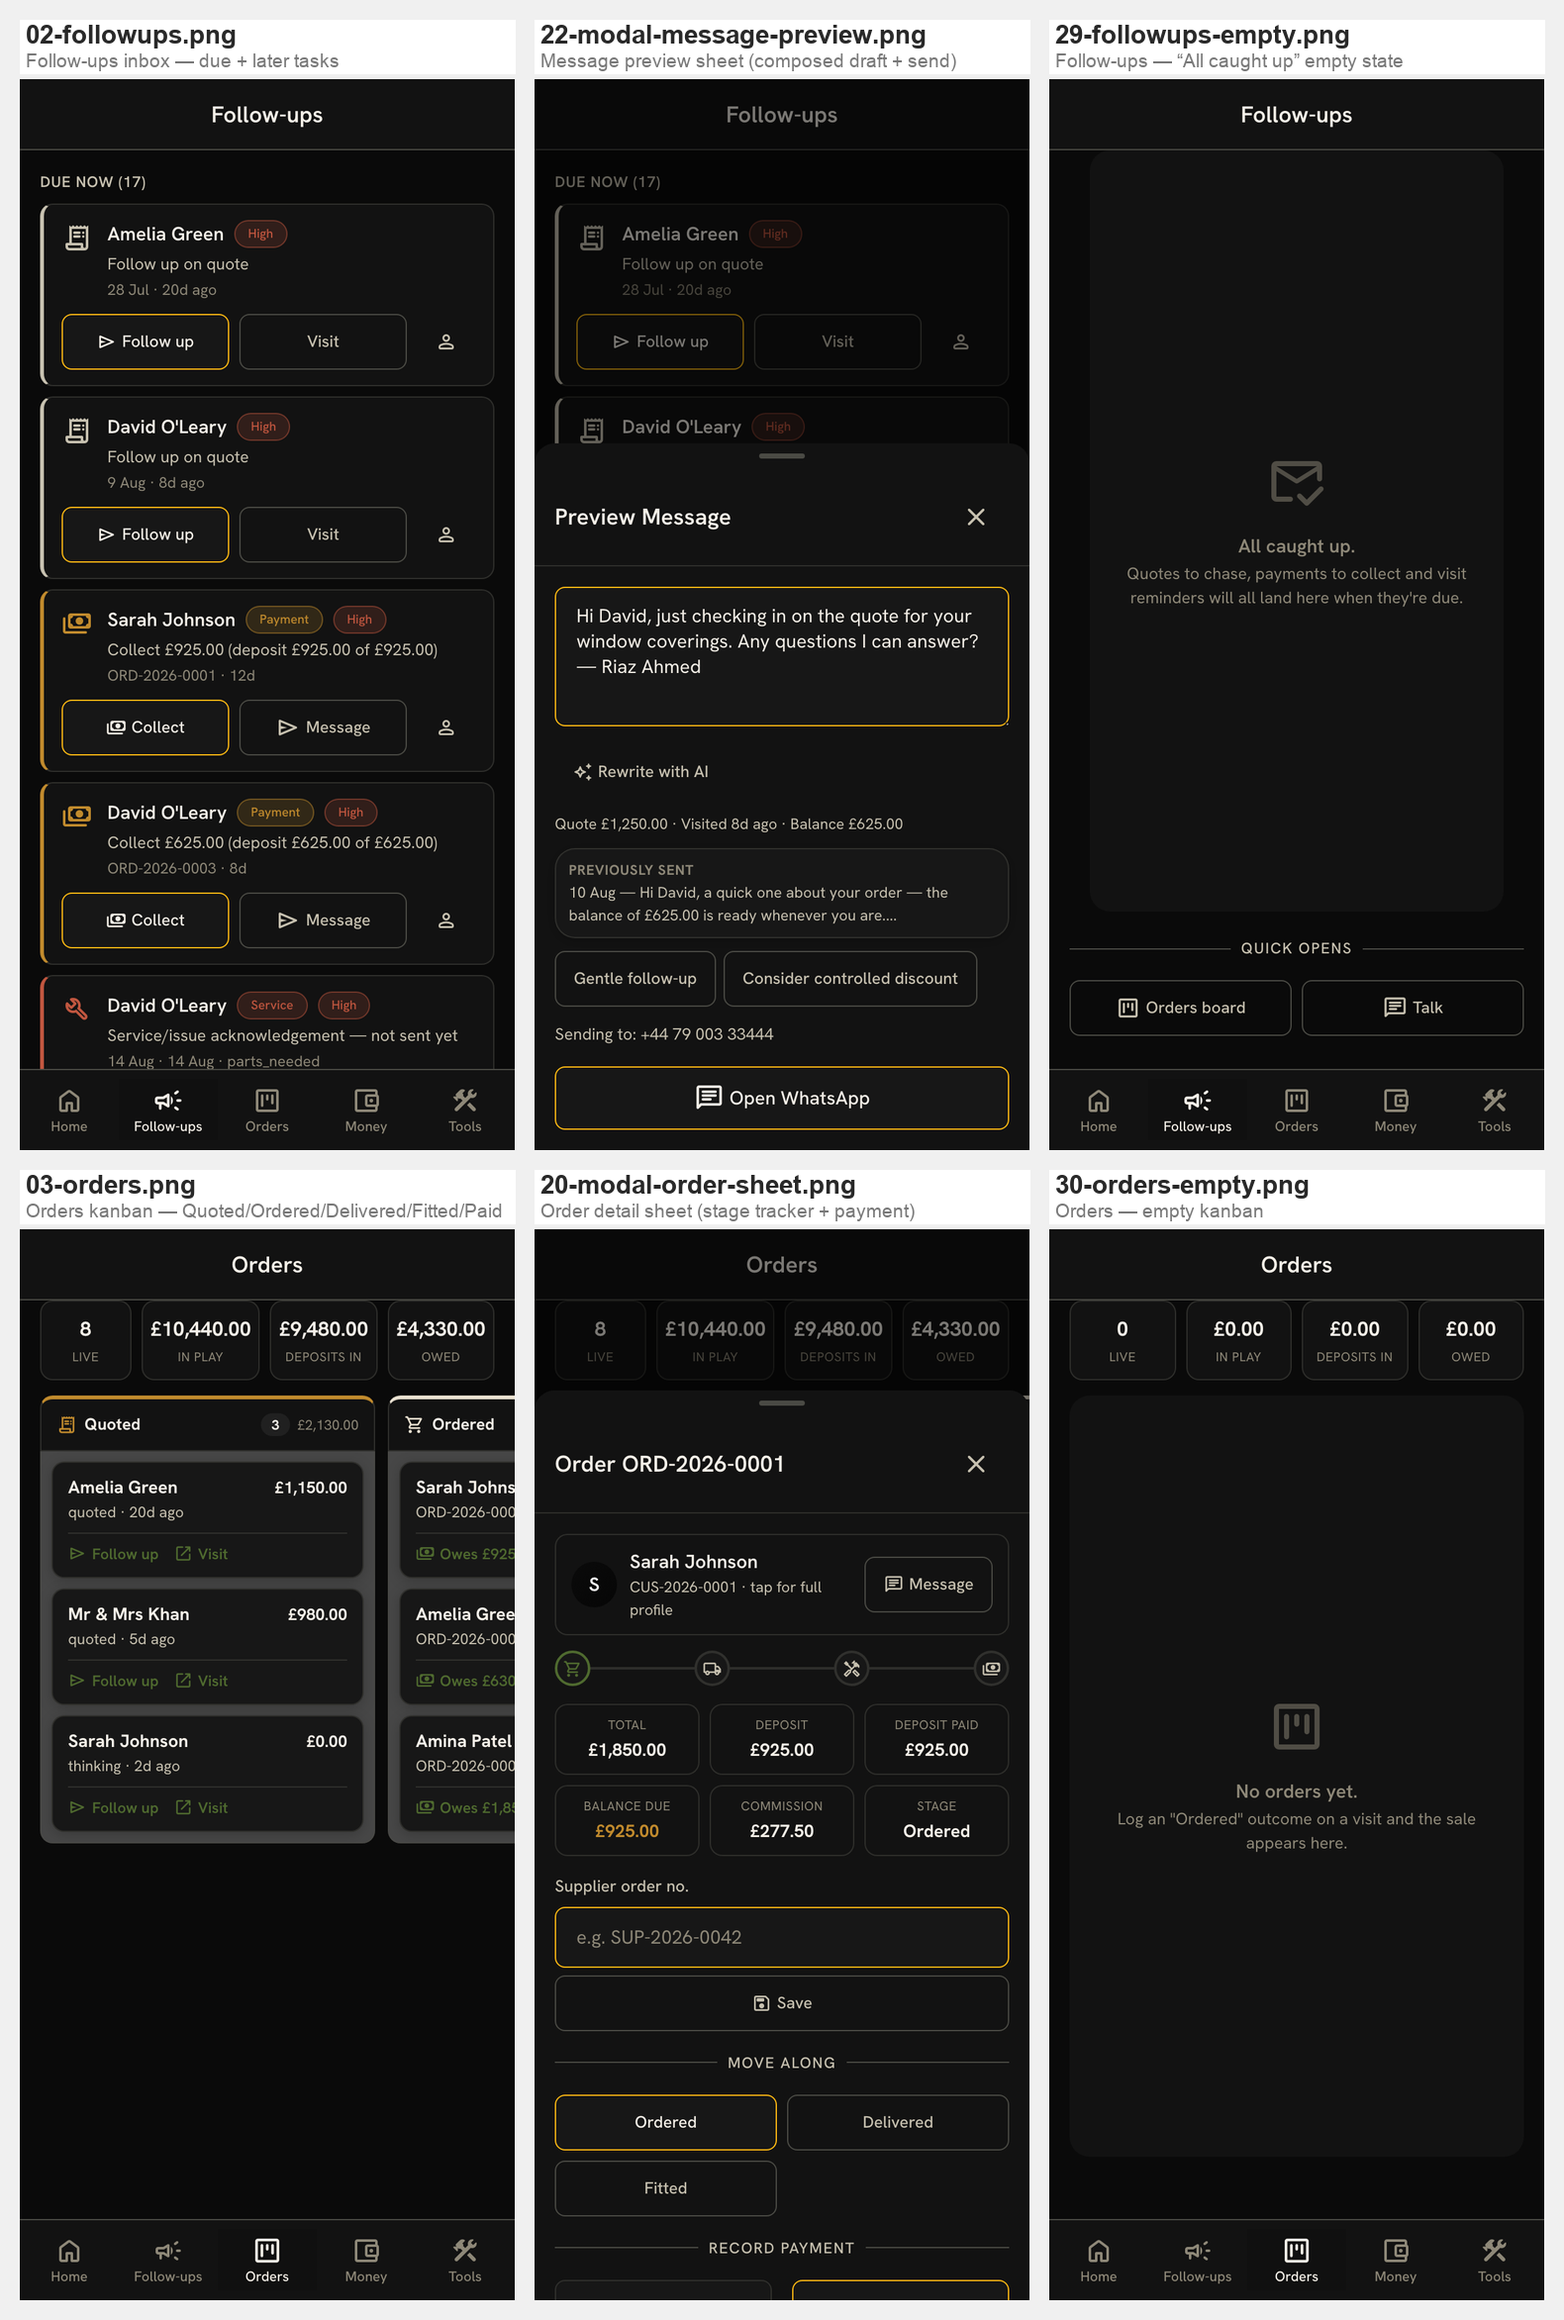
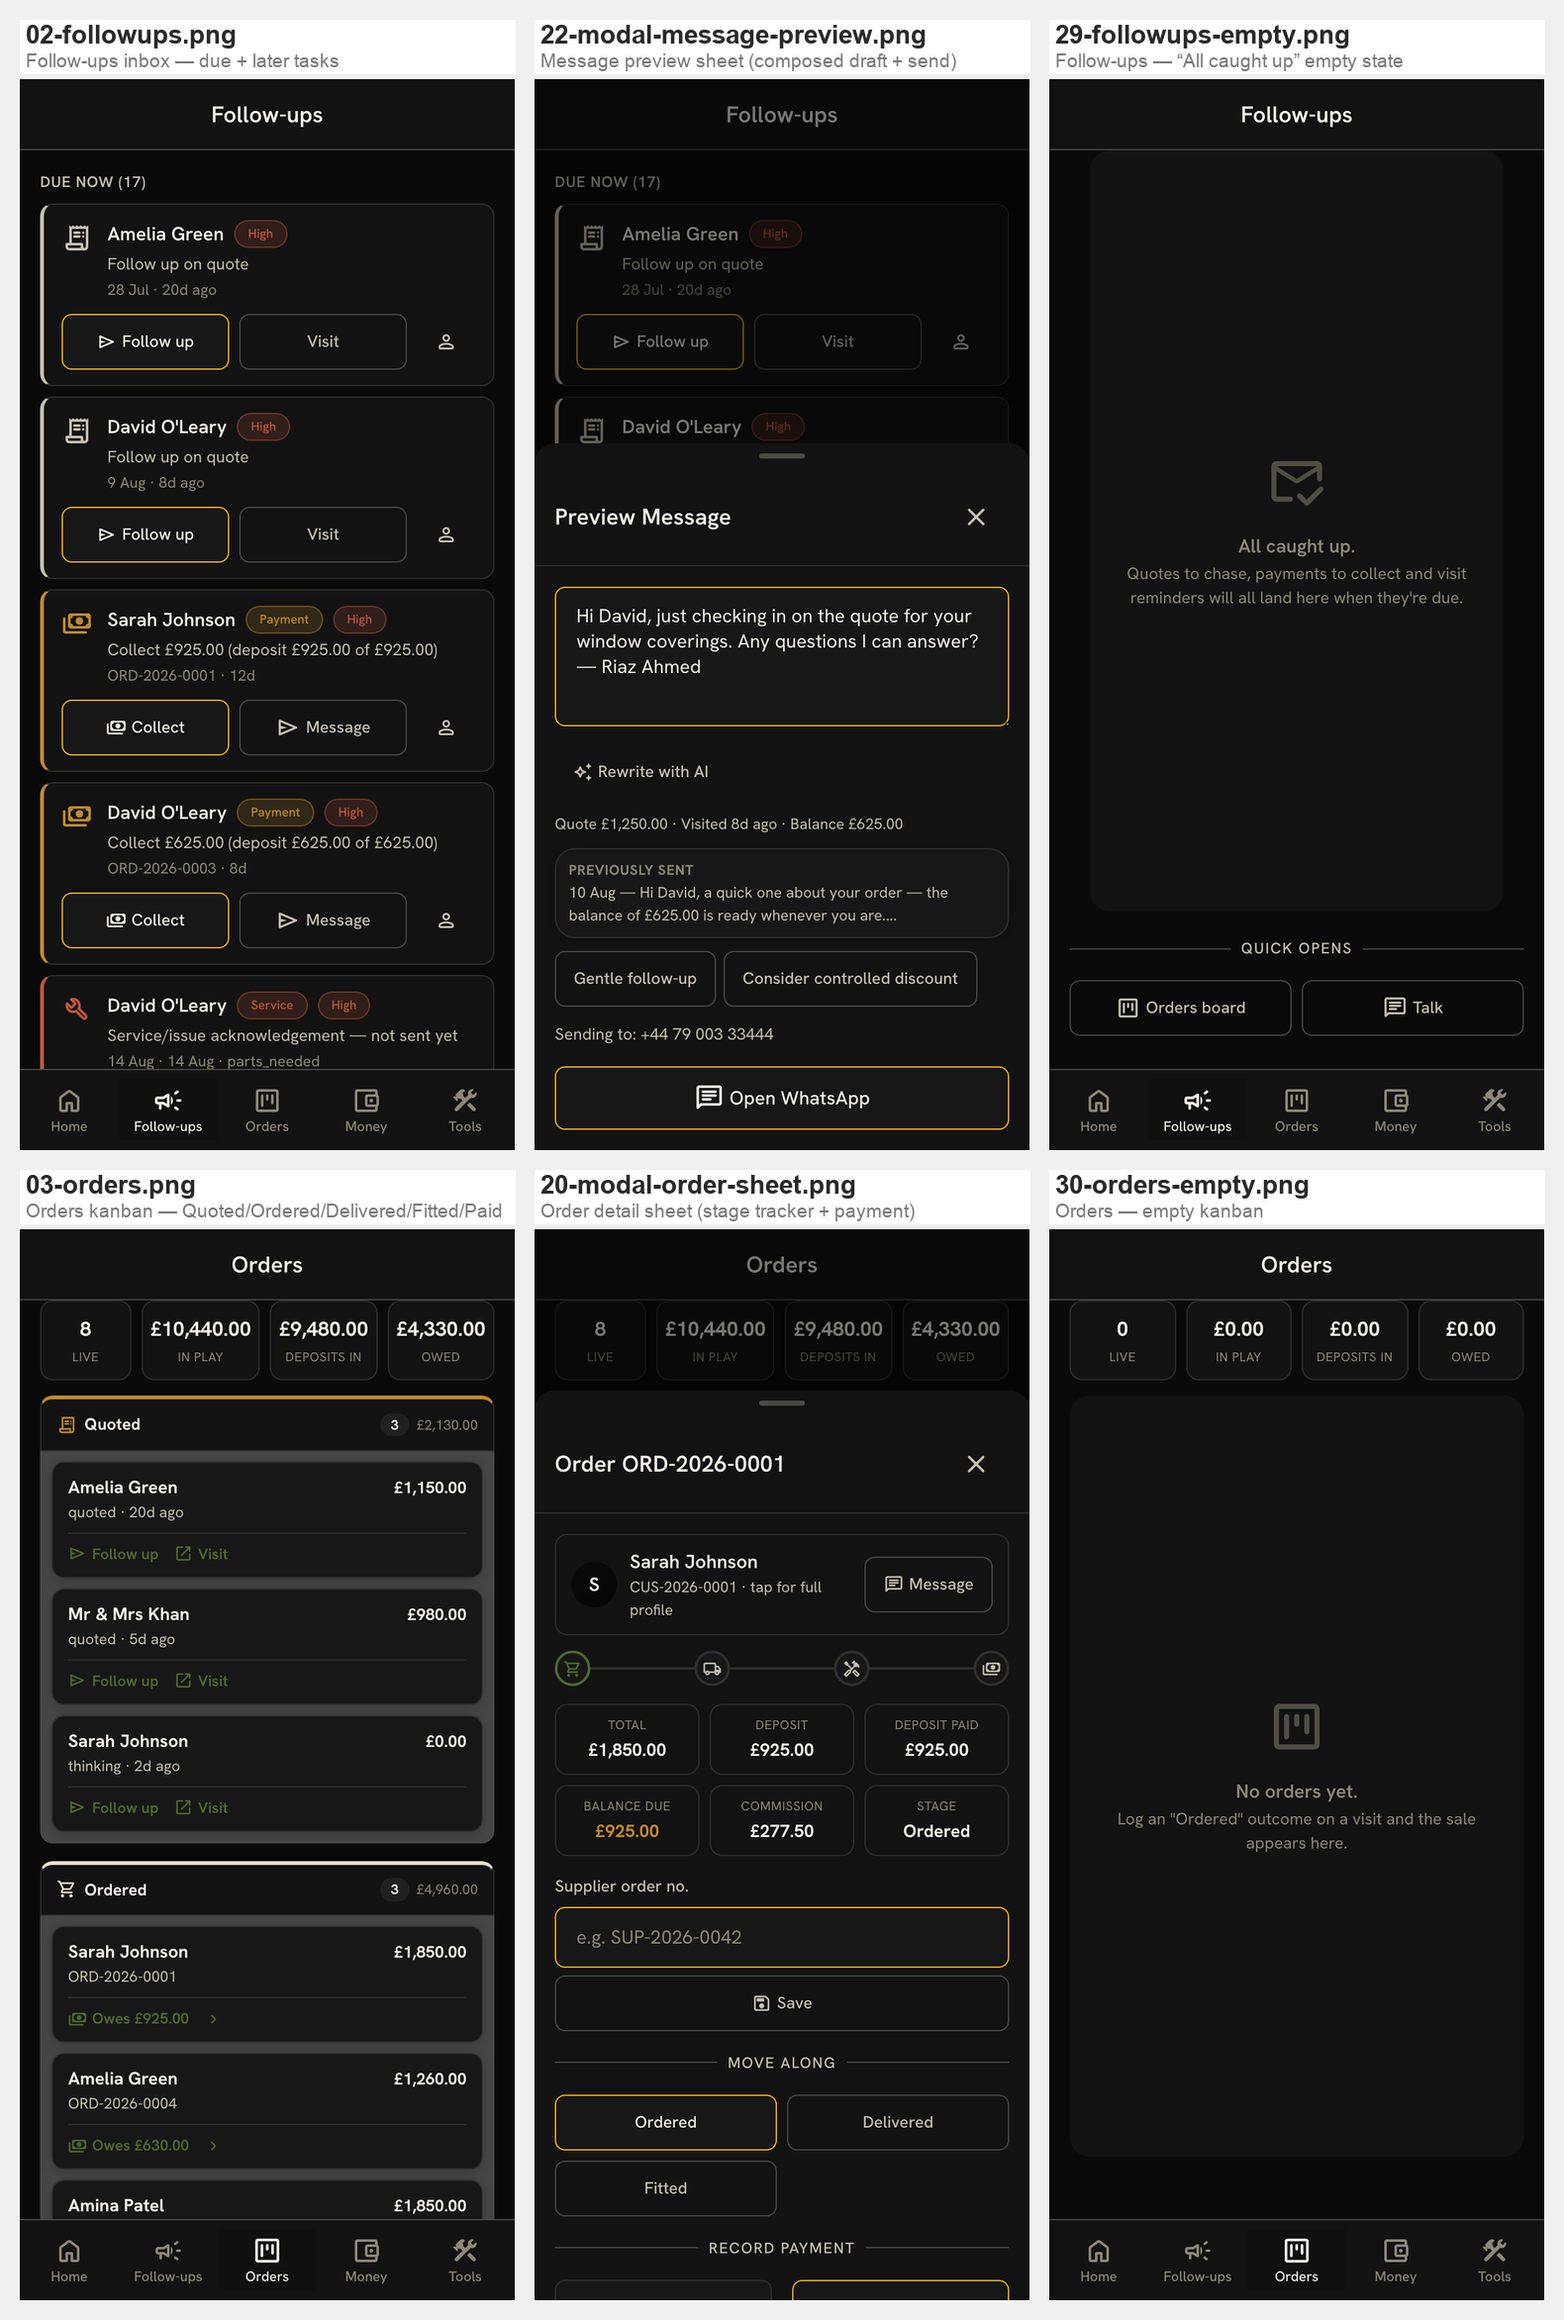
fix(orders): stack kanban columns vertically, no horizontal scroll

Changed region(s): [[0.0, 0.5917, 0.3411, 0.9654]]

diff --git a/sw.js b/sw.js
@@ -1,7 +1,7 @@
-const CACHE_NAME = 'advisoros-v6-36';
+const CACHE_NAME = 'advisoros-v6-37';
 const FONT_CACHE_NAME = 'advisoros-fonts-1';
 const STATIC_ASSETS = [
-  './','index.html','css/core.css?v=23','css/components.css?v=26','assets/fonts/material-symbols-rounded.woff2',
+  './','index.html','css/core.css?v=23','css/components.css?v=27','assets/fonts/material-symbols-rounded.woff2',
   'js/vendor/dexie.min.js?v=1','js/vendor/minidexie.min.js?v=12',
   'js/core/config.min.js?v=10','js/core/utils.min.js?v=6','js/core/db.min.js?v=15','js/core/geoprovider.min.js?v=1','js/core/geo.min.js?v=6','js/core/search.min.js?v=2','js/core/tax.min.js?v=2','js/core/app.min.js?v=9','js/core/contact.min.js?v=3',
   'js/services/ai.min.js?v=7','js/services/notification.min.js?v=5','js/services/message-scheduler.min.js?v=3','js/services/export.min.js?v=3','js/services/weather.min.js?v=3',

diff --git a/css/components.css b/css/components.css
@@ -1642,15 +1642,14 @@ body.trip-active .toast-container {
 
 .kanban-scroll {
   display: flex;
-  gap: 10px;
-  overflow-x: auto;
+  flex-direction: column;
+  gap: 14px;
   padding: 0 16px 24px;
-  -webkit-overflow-scrolling: touch;
 }
 
 .kanban-col {
-  flex: 1 0 264px;
-  max-width: 300px;
+  flex: none;
+  width: 100%;
   display: flex;
   flex-direction: column;
 }

diff --git a/index.html b/index.html
@@ -51,7 +51,7 @@
   </noscript>
 
   <link rel="stylesheet" href="css/core.css?v=23">
-  <link rel="stylesheet" href="css/components.css?v=26">
+  <link rel="stylesheet" href="css/components.css?v=27">
 
   <!-- Storage engine: real Dexie first (indexed queries, transactions); the
        bundled mini-Dexie shim only registers if Dexie is unavailable. -->
